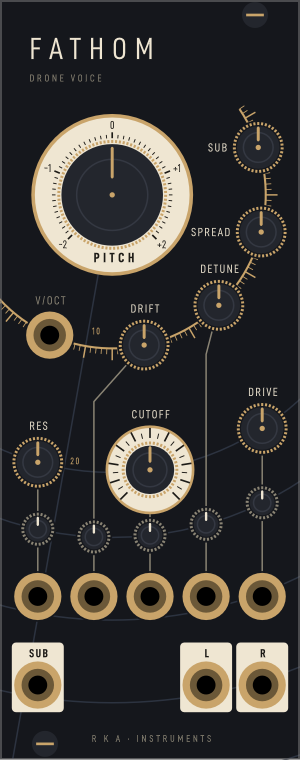
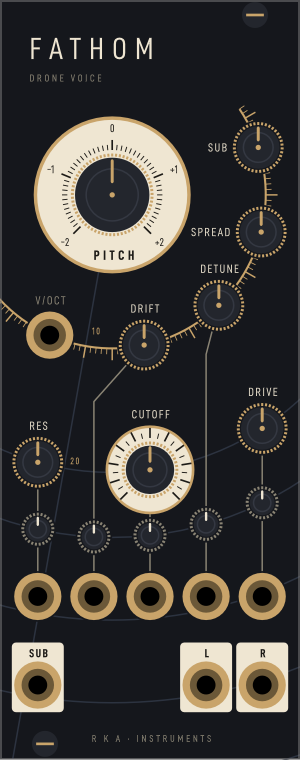
Fathom: a smaller main dial for Pitch; README lists the screw
The hero knob (9.3 mm radius) left Pitch's scale a 4.1 mm ring, so its
ticks were short and its numerals crowded. A new Instrument size, dial
(7 mm radius, rka::DialKnob), sits beside the others; Pitch uses it on a
13.0 mm face with the default tick lengths and numeral radius, as Sway's
Rate. SPREAD's name now clears the Pitch bezel by 0.7 mm (was 0.3). The
specimen gains a dial so it still uses every size.

README: rka::DialKnob and rka::Screw among the Instrument components, and
screws among what the generator keeps clear. Fathom's manual: outputs sit
on ivory tiles.

Changed region(s): [[0.09, 0.1513, 0.66, 0.3632]]

diff --git a/tools/gen_panels.py b/tools/gen_panels.py
@@ -74,11 +74,11 @@ KIND_COLOUR = {"param": "#ff0000", "input": "#00ff00", "output": "#0000ff", "lig
 # to draw ticks edge to edge.
 RADII = {"big": 8.8, "mid": 6.7, "small": 4.32, "trim": 2.3, "jack": 4.0,
          "encoder": 6.7, "button": 3.0, "light": 1.1}
-# The Instrument look's own components (src/widgets.hpp: HeroKnob, FaceKnob,
-# LimbKnob, Atten, KnurlEncoder, BrassPort, Toggle2, CapLatch / CapButton,
+# The Instrument look's own components (src/widgets.hpp: HeroKnob, DialKnob,
+# FaceKnob, LimbKnob, Atten, KnurlEncoder, BrassPort, Toggle2, CapLatch / CapButton,
 # JewelLight). A knob's radius is to the outside of its knurl. The toggle is
 # a 3.6 x 6.4 mm rectangle; its radius is the circle round it.
-INSTRUMENT_SIZES = {"hero": 9.3, "face": 4.8, "limb": 4.3, "atten": 2.8, "enc": 7.25,
+INSTRUMENT_SIZES = {"hero": 9.3, "dial": 7.0, "face": 4.8, "limb": 4.3, "atten": 2.8, "enc": 7.25,
                     "port": 4.0, "toggle": 3.7, "cap": 3.2, "jewel": 1.0}
 RADII.update(INSTRUMENT_SIZES)
 TOGGLE_W, TOGGLE_H = 3.6, 6.4
@@ -269,7 +269,9 @@ PANELS = {
         + [("output", "SUBOUT", _FA_X[0], 116.0, "SUB"),
            ("output", "LEFT", _FA_X[3], 116.0, "L"),
            ("output", "RIGHT", _FA_X[4], 116.0, "R")],
-        sizes={"PARAM_PITCH": "hero", "PARAM_CUTOFF": "face"},
+        # The smaller main dial: its 13.4 mm face is the mockup's, and the
+        # hero knob would leave the scale no room on it.
+        sizes={"PARAM_PITCH": "dial", "PARAM_CUTOFF": "face"},
         origins=[_FA_O],
         circles=[(*_FA_O, r) for r in (_FA_FILTER, _FA_ATT, 72, 86, 100)],
         # The sounding line, from the origin to the foot of the panel.
@@ -279,8 +281,7 @@ PANELS = {
         limbs=[dict(c=_FA_O, r=_FA_LIMB_R, a0=-50, a1=124, step=2, major=5)],
         faces={
             # A tick per semitone over +-24, numbered in octaves.
-            "PARAM_PITCH": dict(r=13.4, ticks=48, major=12, numerals=["-2", "-1", "0", "+1", "+2"],
-                                tick_r=9.6, minor_len=0.6, major_len=1.0, numeral_r=11.85, numeral_size=1.9),
+            "PARAM_PITCH": dict(r=13.0, ticks=48, major=12, numerals=["-2", "-1", "0", "+1", "+2"]),
             # 20 Hz to 20 kHz: a long tick per octave.
             "PARAM_CUTOFF": dict(r=7.3, ticks=20, major=2),
         },
@@ -1471,6 +1472,7 @@ def instrument_svg(name, spec, pal):
 # Art name: (size, knurl colour, index colour or None, index width, centre dot).
 KNOBS = {
     "HeroKnob": ("hero", "brass", "brass", 0.5, True),
+    "DialKnob": ("dial", "brass", "brass", 0.5, True),
     "FaceKnob": ("face", "brass", "brass", 0.5, True),
     "LimbKnob": ("limb", "brass", "brass", 0.5, True),
     "Atten": ("atten", "dim", "ivory", 0.4, False),
@@ -1485,7 +1487,7 @@ KNURL_TICKS = {"Encoder": 55}
 # Size -> the artwork a component of that size is drawn with, bottom first;
 # of a knob's two layers the second turns.
 ART_LAYERS = {
-    "hero": ("HeroKnob_bg", "HeroKnob"), "face": ("FaceKnob_bg", "FaceKnob"),
+    "hero": ("HeroKnob_bg", "HeroKnob"), "dial": ("DialKnob_bg", "DialKnob"), "face": ("FaceKnob_bg", "FaceKnob"),
     "limb": ("LimbKnob_bg", "LimbKnob"), "atten": ("Atten_bg", "Atten"), "enc": ("Encoder_bg", "Encoder"),
     "port": ("BrassPort",), "toggle": ("Toggle2_1",), "cap": ("Cap",), "jewel": ("JewelSeat",),
 }
@@ -1621,6 +1623,7 @@ SPECIMEN = dict(
         ("param", "RATE", 22.0, 36.0, "RATE"),
         ("light", "RATE", 22.0, 47.2, None),
         ("param", "SPREAD", 51.0, 27.0, "SPREAD"),
+        ("param", "DIAL", 86.0, 12.0, "DIAL"),
         ("widget", "ENC", 77.0, 36.0, "ENCODER"),
         ("param", "PUSH", 89.5, 47.0, "PUSH"),
         ("param", "OFFSET", 53.0, 53.0, "BI/UNI"),
@@ -1643,7 +1646,7 @@ SPECIMEN = dict(
         ("light", "B", 83.2, 112.0, None),
         ("output", "B", 89.0, 112.0, "B"),
     ],
-    sizes={"PARAM_RATE": "hero", "PARAM_SPREAD": "face", "PARAM_OFFSET": "toggle",
+    sizes={"PARAM_RATE": "hero", "PARAM_DIAL": "dial", "PARAM_SPREAD": "face", "PARAM_OFFSET": "toggle",
            "PARAM_ONESHOT": "cap", "PARAM_PUSH": "cap"},
     origins=[_SP],
     circles=[(_SP[0], _SP[1], r) for r in (78, 90, 102, 114)],
@@ -1653,6 +1656,7 @@ SPECIMEN = dict(
     faces={
         "PARAM_RATE": dict(r=16.4, ticks=50, major=5, numerals=list(range(11))),
         "PARAM_SPREAD": dict(r=7.3, ticks=20, major=5),
+        "PARAM_DIAL": dict(r=9.6, ticks=24, major=6),   # the smaller main dial
         "WIDGET_ENC": dict(r=10.4, ticks=24, sweep=360, minor_len=1.3),   # one tick per detent
     },
     tiles=[dict(port="OUTPUT_SIN"), dict(port="OUTPUT_TRI")]
@@ -1668,7 +1672,7 @@ SPECIMEN = dict(
     + [[f"INPUT_{n}", f"PARAM_{n}_ATT", f"PARAM_{n}"] for n in _SP_NAMES[1:]],
     screens=[("SCOPE", 56.0, 66.0, 41.6, 20.8)],
     rulers={"SCOPE": dict(px=0.65, sides="lb", numerals=True)},
-    label_at={"PARAM_RATE": "face", "PARAM_SPREAD": "below", "PARAM_PUSH": "below",
+    label_at={"PARAM_RATE": "face", "PARAM_DIAL": "left", "PARAM_SPREAD": "below", "PARAM_PUSH": "below",
               "LIGHT_TRIG": "right"},
     label_colour={"PARAM_SPREAD": "dim", "PARAM_PUSH": "dim", "PARAM_OFFSET": "dim", "PARAM_ONESHOT": "dim"},
     notes=[(10.0, 64.0, "FM", 2.0, "ivory", "start"),

diff --git a/tools/test_gen_panels.py b/tools/test_gen_panels.py
@@ -660,7 +660,7 @@ class Artwork(unittest.TestCase):
 
     def test_knurl_is_individual_ticks_evenly_spaced(self):
         art = g.component_art(g.INSTRUMENT[""])
-        for name in ("HeroKnob", "FaceKnob", "LimbKnob", "Atten", "Encoder"):
+        for name in ("HeroKnob", "DialKnob", "FaceKnob", "LimbKnob", "Atten", "Encoder"):
             w, _, els = art[name]
             knurl = [e for e in els if 'data-part="knurl"' in e]
             self.assertEqual(len(knurl), 1, name)
@@ -684,6 +684,16 @@ class Artwork(unittest.TestCase):
         face = g.SPECIMEN["faces"]["WIDGET_ENC"]
         self.assertEqual([major for _, major in g.face_ticks(face)], [False] * 24)
 
+    def test_fathoms_pitch_scale_is_as_long_as_sways(self):
+        # On the dial-size knob the 13.4 mm face holds the default scale:
+        # the same tick lengths and numeral size as Sway's Rate.
+        pitch, rate = g.PANELS["Fathom"]["faces"]["PARAM_PITCH"], g.PANELS["Sway"]["faces"]["PARAM_RATE"]
+        self.assertEqual(g.component_size(g.PANELS["Fathom"], "Fathom", "param", "PITCH"), "dial")
+        for key in ("tick_r", "minor_len", "major_len", "numeral_r", "numeral_size"):
+            self.assertNotIn(key, pitch, key)
+            self.assertNotIn(key, rate, key)
+        self.assertGreaterEqual(pitch["r"] - g.RADII["dial"], 6.0)
+
     def test_the_lit_cap_is_one_centred_disc(self):
         w, h, els = g.component_art(g.INSTRUMENT[""])["Cap_lit"]
         self.assertEqual(len(els), 1)
@@ -691,7 +701,7 @@ class Artwork(unittest.TestCase):
 
     def test_dark_variants_exist_and_differ(self):
         files = g.component_files()
-        for name in ("HeroKnob", "HeroKnob_bg", "FaceKnob", "LimbKnob", "Atten", "Encoder", "BrassPort",
+        for name in ("HeroKnob", "HeroKnob_bg", "DialKnob", "DialKnob_bg", "FaceKnob", "LimbKnob", "Atten", "Encoder", "BrassPort",
                      "Toggle2_0", "Toggle2_1", "Cap", "JewelSeat", "Screw"):
             self.assertIn(f"{name}.svg", files)
             self.assertIn(f"{name}-dark.svg", files)

diff --git a/src/fathom/Fathom.cpp b/src/fathom/Fathom.cpp
@@ -186,7 +186,7 @@ struct FathomWidget : ModuleWidget {
 
 		// PITCH, the origin, on its numbered face; the voice knobs and
 		// V/OCT on the limb around it.
-		addParam(createParamCentered<rka::HeroKnob>(mm2px(PARAM_PITCH), module, Fathom::PITCH_PARAM));
+		addParam(createParamCentered<rka::DialKnob>(mm2px(PARAM_PITCH), module, Fathom::PITCH_PARAM));
 		addParam(createParamCentered<rka::LimbKnob>(mm2px(PARAM_SUB), module, Fathom::SUB_PARAM));
 		addParam(createParamCentered<rka::LimbKnob>(mm2px(PARAM_SPREAD), module, Fathom::SPREAD_PARAM));
 		addParam(createParamCentered<rka::LimbKnob>(mm2px(PARAM_DETUNE), module, Fathom::DETUNE_PARAM));

diff --git a/src/widgets.hpp b/src/widgets.hpp
@@ -376,6 +376,14 @@ struct HeroKnob : KnurledKnob {
 	}
 };
 
+// 14 mm: a main control on a smaller numbered face (Fathom's PITCH), where
+// the hero would leave the scale no room.
+struct DialKnob : KnurledKnob {
+	DialKnob() {
+		setArt("DialKnob");
+	}
+};
+
 // 9.6 mm: a secondary control on a small enamel face.
 struct FaceKnob : KnurledKnob {
 	FaceKnob() {

diff --git a/README.md b/README.md
@@ -127,9 +127,10 @@ output tiles, signal traces, screen windows, the nameplate and foot mark) is
 documented at "The Instrument look" in `tools/gen_panels.py`, and its
 `SPECIMEN` panel uses every part: `make specimen` draws it, components in
 place, to `build/specimen/` as SVG and as PNG at Rack's 100 % and 300 %
-zoom. Its components are `rka::HeroKnob`, `rka::FaceKnob`, `rka::LimbKnob`,
-`rka::Atten`, `rka::KnurlEncoder`, `rka::BrassPort`, `rka::Toggle2`,
-`rka::CapButton`, `rka::CapLatch` and `rka::JewelLight`, with artwork in
+zoom. Its components are `rka::HeroKnob`, `rka::DialKnob`, `rka::FaceKnob`,
+`rka::LimbKnob`, `rka::Atten`, `rka::KnurlEncoder`, `rka::BrassPort`,
+`rka::Toggle2`, `rka::CapButton`, `rka::CapLatch`, `rka::JewelLight` and
+`rka::Screw`, with artwork in
 `res/components/` in normal and dark-panel variants. Instrument panels are
 lettered in D-DIN Condensed only, from `tools/fonts/`: `make panels` shows
 Inkscape that folder and nothing else, and stops if Inkscape would set the
@@ -138,7 +139,9 @@ layout whose trace grazes a control or tile it does not belong to, runs
 under a screen or through lettering, or bends more than once; whose traces
 cross or touch; or whose lettering (the foot mark included) overlaps a
 component, other lettering, a screen, the limb, or a face or tile it does
-not sit on. A misspelt key in a description fails too.
+not sit on. The rack screws (`screws` in a description, placed by the module
+from its layout header's `SCREWS`) are kept clear of all of these as well. A
+misspelt key in a description fails too.
 
 ### Changing a panel
 

diff --git a/docs/fathom/README.md b/docs/fathom/README.md
@@ -24,7 +24,7 @@ arc on the panel is a ping travelling out from it.
   each jack to its attenuverter and on to the knob it moves; the DRIFT and
   DETUNE lines climb up and bend across to their knobs on the arc.
 - Bottom row: the **SUB** output on the left, **L** and **R** on the
-  right, each on a light tile; inputs are bare.
+  right, each on an ivory tile; inputs are bare.
 - The faint line falling from PITCH, marked 10 and 20, is the sounding
   line: a depth scale for the pings, nothing to set.
 
